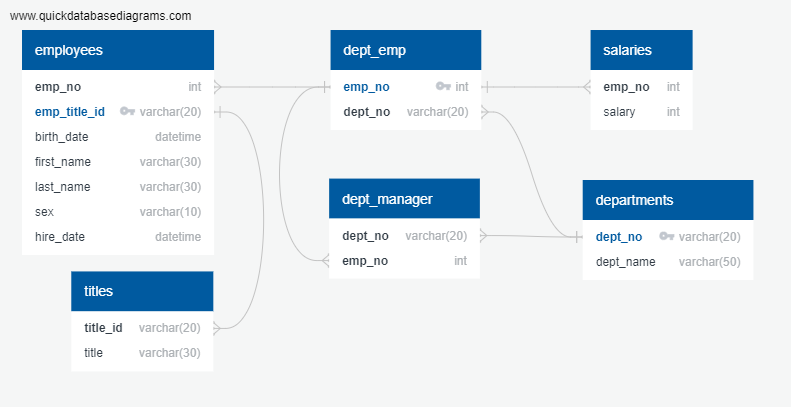
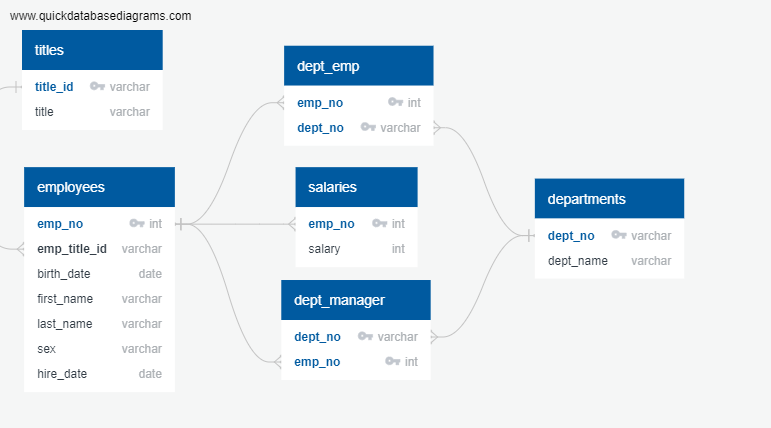
revised ERD and adding quickdbd code

diff --git a/EmployeeSQL/quickdatabasediagrams - code.md b/EmployeeSQL/quickdatabasediagrams - code.md
@@ -1,0 +1,35 @@
+titles
+-
+title_id varchar pk 
+title varchar
+
+employees
+-
+emp_no int pk 
+emp_title_id varchar fk >- titles.title_id 
+birth_date date 
+first_name varchar 
+last_name varchar 
+sex varchar 
+hire_date date 
+
+departments
+-
+dept_no varchar pk
+dept_name varchar
+
+dept_manager
+-
+dept_no varchar pk fk >- departments.dept_no
+emp_no int pk fk >- employees.emp_no
+
+
+dept_emp
+-
+emp_no int pk fk >- employees.emp_no
+dept_no varchar pk fk >- departments.dept_no
+
+salaries
+-
+emp_no int pk fk >- employees.emp_no
+salary int 
